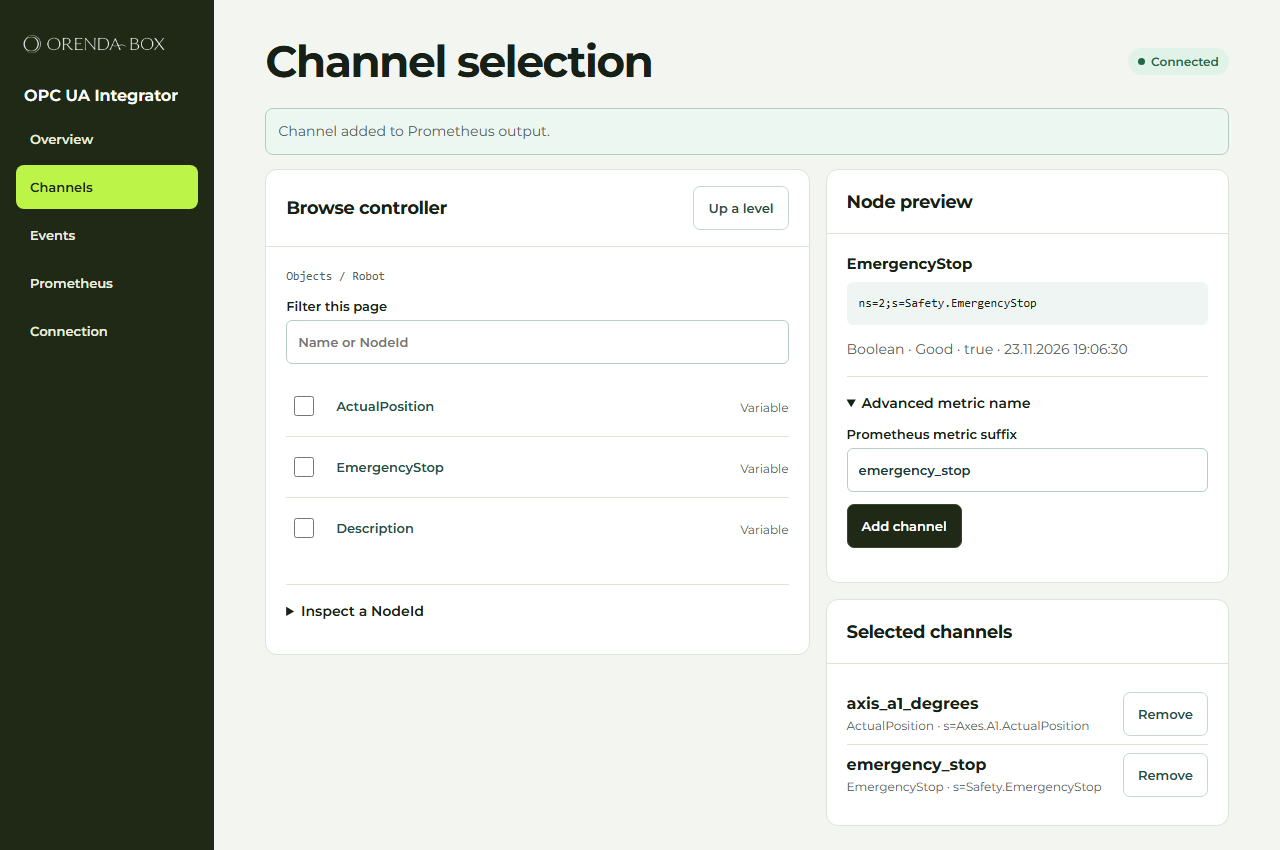
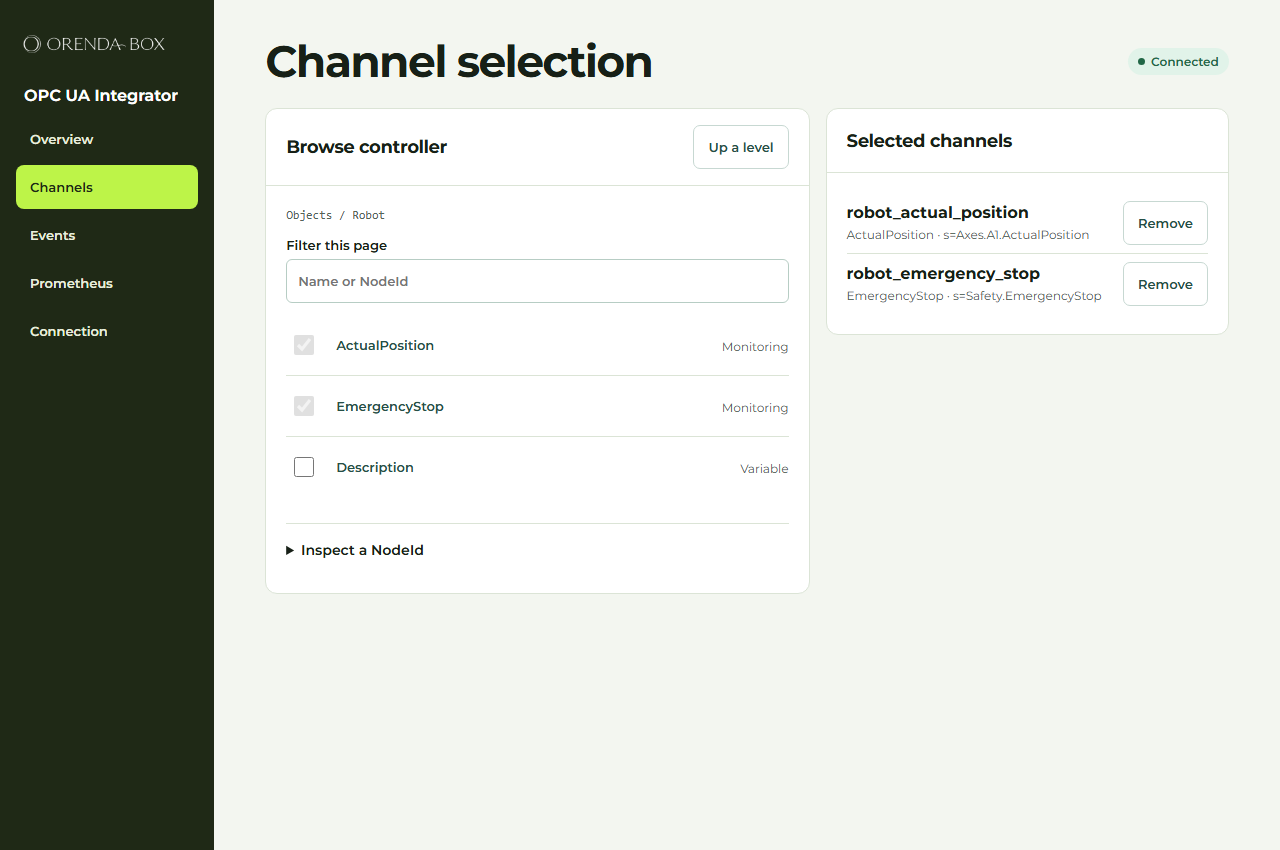
Ship the operator guide, authenticated emulator screenshots and qualification record

diff --git a/tools/publish-market.js b/tools/publish-market.js
@@ -23,8 +23,13 @@ async function main() {
   await api(existing ? app : apps,{token,method:existing ? 'PUT' : 'POST',body:{id,name,description,category,runtime,metadata,port:3101}});
   const img = 'https://raw.githubusercontent.com/OrendaNet/OrendaOpcUa/' + v.version + '/docs/screens/';
   await api(app + '/storefront',{token, method:'PUT', body:{slug:id,headline:name,shortDescription:description,
-    longDescription:'Connect a controller, approve its certificate and select signals. The Box collects selected readings automatically. Inspect channel quality, controller timestamps and recent events in Edge Console.',
-    categories:['industrial','monitoring'], tags:['opc-ua','prometheus','robotics','telemetry'], logoUrl:img+'orendabox.png', heroUrl:img+'overview.png', screenshots:[img+'overview.png',img+'channels.png'], documentationUrl:github+'#readme',supportUrl:github+'/issues'}});
+    longDescription:[
+      'Monitor an OPC UA controller from OrendaBox. Connect the controller, verify its certificate and choose the signals you want to collect. The Box automatically publishes the selected channels to its own Prometheus.',
+      'A channel is one machine measurement or Boolean state, such as an axis position or an emergency-stop flag. The channel browser shows its value, OPC UA quality and controller timestamp. Good readings are exported. Stale or invalid readings drop out of the value series.',
+      'Select an event source to see recent controller messages, condition codes, severity and receipt times. Operators can monitor the machine. Administrators manage the connection, sample interval, event source and up to 128 signals.',
+      'Requires a compatible ARM64 OrendaBox with DevicePlatform 0.2.92 or later and a Sign & Encrypt OPC UA endpoint. Outbound network access reaches the controller. The separate measurement grant enables Box collection.'
+    ].join('\n\n'),
+    categories:['industrial','monitoring'], tags:['opc-ua','prometheus','robotics','telemetry'], logoUrl:img+'orendabox.png', heroUrl:img+'overview.png', screenshots:['overview.png','channels.png','events.png','prometheus.png'].map(file => img+file), documentationUrl:github+'/blob/'+v.version+'/docs/operator-guide.md',supportUrl:github+'/issues'}});
   const previous = (await api(app+'/versions',{token})).versions.find(x => x.version === v.version);
   if (previous && previous.digest !== v.digest) throw Error('Market version already uses a different digest');
   if (!previous) await api(app+'/versions',{token,body:v});

diff --git a/docs/operator-guide.md b/docs/operator-guide.md
@@ -1,0 +1,36 @@
+# Using OPC UA Integrator
+
+OPC UA Integrator lets you observe a controller from OrendaBox. An administrator connects one server and selects the machine signals to collect. Operators can open the app from Edge Console to view readings, recent controller events and collection health.
+
+## Install and connect
+
+1. In the Box App Market, install **OPC UA Integrator**. Approve **Outbound network access** for the controller and **Publish app measurements** for the Box collector. The compatible Box configures collection during installation.
+2. Open the app and choose **Connect a controller**. Enter the controller IP or hostname. For a nonstandard port or path, enter the complete `opc.tcp://` endpoint. Choose **Discover endpoint**.
+3. Compare the displayed server fingerprint with the controller administrator's copy. Choose one of the sign-in methods offered by the server. If the controller requires client trust, download the Box public certificate under **Connection** and import it into the controller. Select **Trust and connect**.
+4. Browse the controller folders in **Channels**. Tick readable numeric or Boolean variables and select **Monitor selected channels**. Selections carry across folders. Open a variable to inspect its live value and quality. **Advanced metric name** lets you assign a stable, unit-bearing name.
+5. **Overview** shows the latest samples. When the first Box scrape arrives, the Prometheus card shows its time. Under **Prometheus**, copy the query to use the values in dashboards. Machine-specific names and permissions depend on the controller configuration.
+
+## Read a channel
+
+| App term | Meaning |
+| --- | --- |
+| Channel | One selected controller variable, such as axis position or an emergency-stop flag. |
+| Value | The last valid numeric or Boolean reading. In Prometheus a Boolean is 1 or 0. |
+| Quality | The controller's OPC UA status for the reading. A bad or uncertain reading drops the value from the next snapshot. |
+| Controller time | The source timestamp supplied for that reading. |
+| Box scrape | The time the authenticated, on-Box Prometheus collector last retrieved a fresh app snapshot. |
+| Metric name | The channel's stable query identifier. A single Box can collect like-named signals from different apps. |
+
+When a controller goes offline, the app retries automatically and suppresses stale values. A changed server certificate requires a new fingerprint check. If an individual variable reports **BadUserAccessDenied**, check that the controller account can read that variable and that the relevant controller option is enabled.
+
+## Monitor faults and events
+
+In **Channels**, inspect a controller object that supports events and choose **Listen for events here**. Open **Events**. Search by source, message or condition code. Each row includes severity, controller time and Box receipt time when available. The app keeps the latest 200 events in memory. A server that supports condition refresh can republish retained conditions after reconnection. An empty event list can mean the selected source has emitted no events.
+
+For KUKA DeviceConnector, look for `ActualPosition` under the relevant axis's `ParameterSet`. An object under `Controllers` may expose KSS messages. A joint reading and a KSS1 event are both exercised by the test simulator. Availability on a physical machine depends on its DeviceConnector installation and granted access.
+
+## Limits
+
+The app supports one controller, one event source and 128 selected scalar channels per installation. The read interval is adjustable from one to sixty seconds. The read-only service supports certificate-pinned Sign & Encrypt endpoints with anonymous or username authentication. It leaves motion, writes, alarm acknowledgement and safety functions with the controller.
+
+See the [Prometheus metric reference](prometheus.md) for query examples and optional external collectors.

diff --git a/docs/qualification-0.2.0.md b/docs/qualification-0.2.0.md
@@ -1,0 +1,23 @@
+# OPC UA Integrator 0.2.0 qualification
+
+Tested on 23 November 2026 using disposable QEMU ARM64 guests and an independent secure OPC UA simulator. The release candidate is `ghcr.io/orendanet/orenda-opcua@sha256:c5195900013514c71bf496a75dbda9d8e629b137c360ff01c9ecfa1825e0f20e`, built from `0bce0e98d9dd7a5aa27875581a7718ea482d72df`. The release workflow promotes this digest. The packaged process entry point is Node.js, with the JavaScript Box SDK and a private, compiled Go collector.
+
+| Observed through the Box | Tinker Board 2S | CP3B |
+| --- | --- | --- |
+| Standard Edge installer accepted a signed test catalog and approved grants | Passed | Passed |
+| Isolated Edge UI session, secure OPC UA connection and selected channels | Passed | Passed |
+| Axis and Boolean stop channels reported Good, KSS1 event delivered | Passed | Passed |
+| Stock Box Prometheus target reported up and returned two selected values | Passed | Passed |
+| Revoking export removed both values, granting it again restored both | Passed | Passed |
+
+The test uninstalled the preceding candidate and installed the final digest on each target. The second installation recovered the app volume. One PromQL read on CP3B returned axis **−5.985** and stop **0**. On Tinker Board it returned **−4.773** and **1**. Following reapproval both guests returned fresh data. The actual values change as the simulator runs.
+
+The authenticated CP3B browser frame supplied the screenshots of Overview, Channels, Events and Prometheus. Separate browser tests exercised commissioning and navigation at 320 px and queried an external Prometheus TSDB. Native ARM64 CI ran the encrypted simulator tests, including certificate mismatch, rejected credentials, namespace reordering, atomic selection, loss of signal quality and a 128-signal snapshot. SDK tests also exercise normalized OPC UA, PROFINET and EtherCAT observations. These last two inputs are adapter fixtures.
+
+## Test environment
+
+The guests booted Tinker Board and CP3B image filesystems in writable overlays with the candidate Edge and DevicePlatform service files staged. The catalog was locally signed for the test. The generic QEMU kernel needed matching netfilter modules on Tinker Board. CP3B used fresh test database volumes because its snapshot contained damaged database files. Those steps prepared the test machines. Each app installation subsequently went through Edge Console's ordinary installer. No per-app Prometheus setup was performed.
+
+QEMU exercises the Box software path. Physical controller availability and DevicePlatform's separate signed physical qualification for production OS promotion remain outside this run.
+
+[Native ARM64 build and tests](https://github.com/OrendaNet/OrendaOpcUa/actions/runs/45241111733) · [Guest installation test](../tools/qualify_guest.py) · [Box PromQL and grant test](../tools/qualify_collection.py)

diff --git a/docs/release.md b/docs/release.md
@@ -1,7 +1,9 @@
-# OPC UA Integrator 0.2.0 candidate
+# OPC UA Integrator 0.2.0
 
 The ARM64 service uses a compiled Go OPC UA collector and the JavaScript OrendaBox SDK. It supports certificate-pinned controller sessions, authentication, variable browsing and inspection, batch selection, source timestamps, quality and alarm events. DevicePlatform owns the local Prometheus target and scrape credential. Installation requires SDK contract 1.3, Edge Manager 0.2.80 and DevicePlatform 0.2.92.
 
 Operators can view readings and events. An Edge administrator chooses the controller, trusts its certificate and selects signals. The client certificate and configuration persist in the app volume. Recent events are held in memory. This version targets one server and one notifier per installation.
 
-See the [commissioning guide](../README.md), [collection reference](prometheus.md) and [design decisions](design.md).
+The same ARM64 image passed installation, alarm delivery, PromQL readback, and grant revocation and recovery on both supported QEMU targets. [Qualification record](qualification-0.2.0.md)
+
+See the [operator guide](operator-guide.md), [collection reference](prometheus.md) and [design decisions](design.md).

diff --git a/README.md b/README.md
@@ -4,6 +4,8 @@ Connect a read-only OPC UA observer to a controller, choose the channels to coll
 
 ![Overview with a simulated controller and a real Prometheus scrape](docs/screens/overview.png)
 
+See the [operator guide](docs/operator-guide.md) for setup, terminology and event monitoring.
+
 ## Connect your first controller
 
 1. Install the ARM64 app through Orenda Apps and approve **Outbound network access** and **Publish app measurements**.
